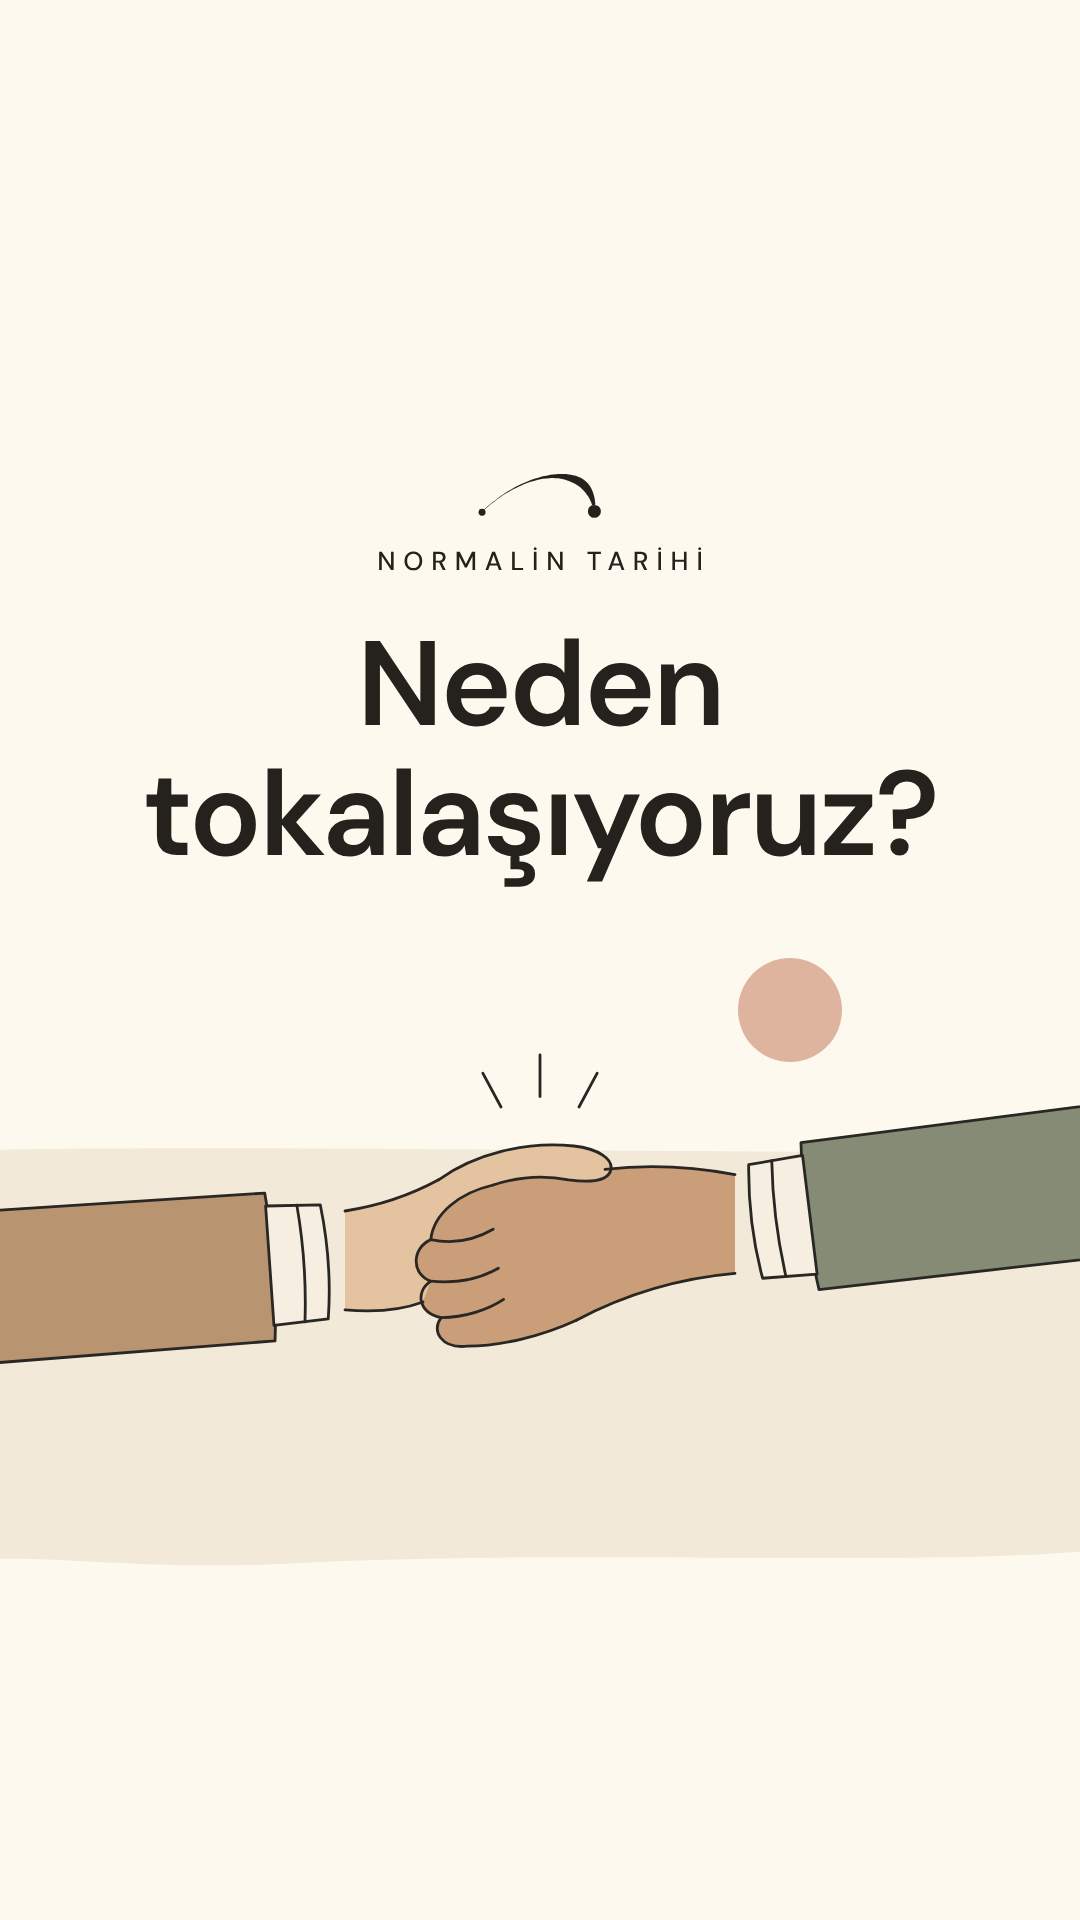
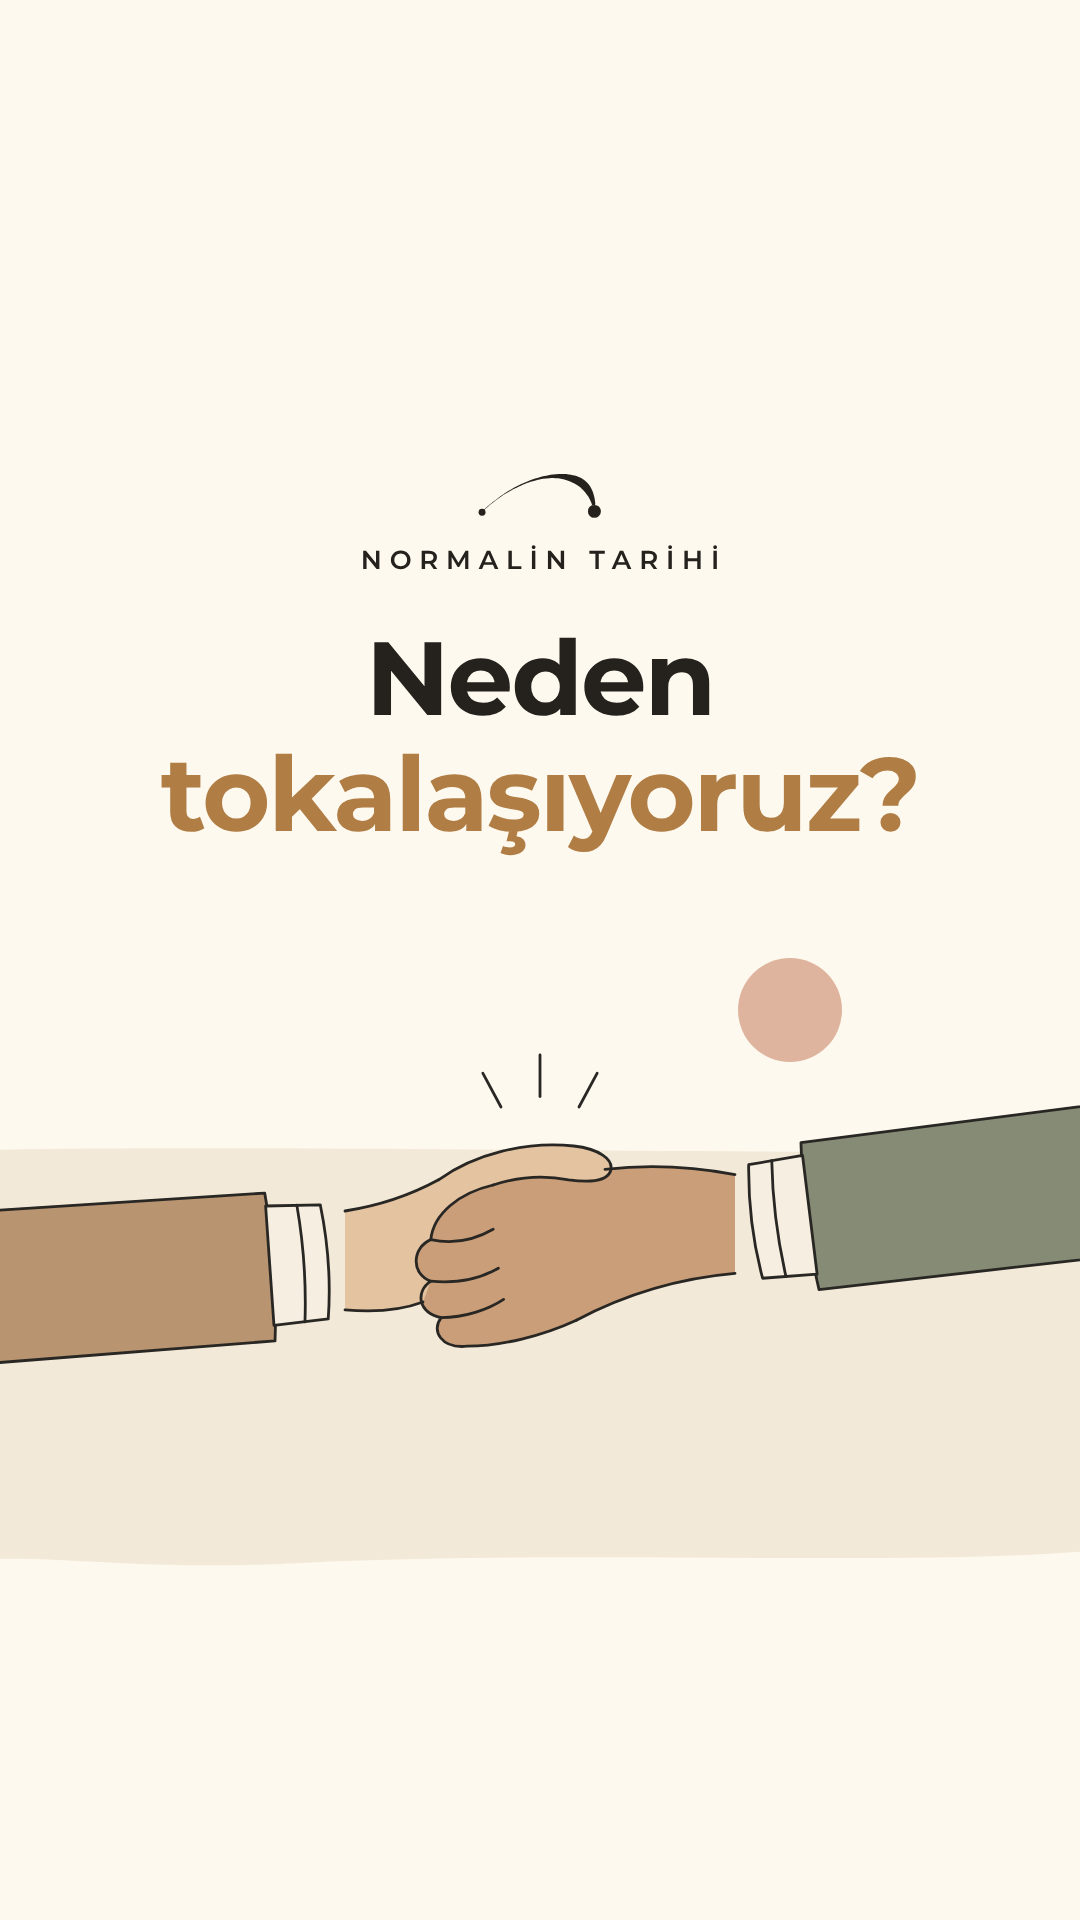
Switch to Montserrat Bold with two-colour text system
- Montserrat (600/700) as the only typeface, modelled on the approved
  BECAME reference; titles are larger/bolder versions of the subtitles
- Two text colours: anthracite #25221E and a caramel highlight
  (provisional until sampled from the reference) via *word* markup
- Opening/cover headline: 'Neden' anthracite, 'tokalaşıyoruz?' caramel
- Highlights in subtitles, labels and the ending greeting

Claude-Session: https://claude.ai/code/session_01FMdTgbYsgAmpC5cpEtNEWe

Changed region(s): [[0.1222, 0.2812, 0.8861, 0.4688], [0.55, 0.2812, 0.6417, 0.3125]]

diff --git a/normalin-tarihi/src/components/Type.tsx b/normalin-tarihi/src/components/Type.tsx
@@ -4,7 +4,7 @@ import {COLORS, FONT_FAMILY, TYPE} from '../brand/theme';
 
 const clamp = {extrapolateLeft: 'clamp', extrapolateRight: 'clamp'} as const;
 
-type Style = (typeof TYPE)[keyof typeof TYPE];
+type Style = {fontSize: number; fontWeight: number; lineHeight: number; letterSpacing: string};
 
 /**
  * The house text reveal: words are laid out up front (no reflow) and each
@@ -13,6 +13,29 @@ type Style = (typeof TYPE)[keyof typeof TYPE];
  * `times` gives each word's start frame; otherwise words are spread evenly
  * (weighted by length) between `from` and `to`.
  */
+/**
+ * Highlight markup: wrap words in *asterisks* (one or several words) to set
+ * them in COLOR B. Markers never change the word count, so narration word
+ * timings still line up.
+ */
+export const parseHighlights = (text: string) => {
+  let on = false;
+  return text
+    .split(/\s+/)
+    .filter(Boolean)
+    .map((raw) => {
+      const opens = raw.startsWith('*');
+      const closes = raw.endsWith('*') && raw.length > 1;
+      if (opens) on = true;
+      const word = raw.replace(/\*/g, '');
+      const hl = on;
+      if (closes) on = false;
+      return {word, hl};
+    });
+};
+
+export const stripHighlights = (text: string) => text.replace(/\*/g, '');
+
 export const WordReveal: React.FC<{
   text: string;
   from: number;
@@ -23,7 +46,8 @@ export const WordReveal: React.FC<{
   style?: React.CSSProperties;
 }> = ({text, from, to, type, times, wordFrames = 8, style}) => {
   const frame = useCurrentFrame();
-  const words = text.split(/\s+/).filter(Boolean);
+  const tokens = parseHighlights(text);
+  const words = tokens.map((t) => t.word);
   const weights = words.map((w) => w.length + 2);
   const total = weights.reduce((a, b) => a + b, 0);
   let acc = 0;
@@ -46,7 +70,16 @@ export const WordReveal: React.FC<{
         acc += weights[i];
         const p = interpolate(frame, [start, start + wordFrames], [0, 1], {...clamp, easing: Easing.out(Easing.quad)});
         return (
-          <span key={i} style={{display: 'inline-block', opacity: p, transform: `translateY(${(1 - p) * 8}px)`, marginRight: i < words.length - 1 ? '0.26em' : 0}}>
+          <span
+            key={i}
+            style={{
+              display: 'inline-block',
+              opacity: p,
+              transform: `translateY(${(1 - p) * 8}px)`,
+              marginRight: i < words.length - 1 ? '0.26em' : 0,
+              color: tokens[i].hl ? COLORS.highlight : undefined,
+            }}
+          >
             {w}
           </span>
         );
@@ -55,13 +88,31 @@ export const WordReveal: React.FC<{
   );
 };
 
-/** Large opening title: a bigger version of the subtitle type, word by word. */
-export const Title: React.FC<{text: string; from: number; to: number; top: number; out?: number}> = ({text, from, to, top, out}) => {
+/**
+ * Large headline: a bigger, bolder version of the subtitle type, revealed
+ * word by word. `lines` are stacked and centred; use *word* for COLOR B.
+ */
+export const Title: React.FC<{lines: string[]; from: number; to: number; top: number; out?: number; size?: number}> = ({
+  lines,
+  from,
+  to,
+  top,
+  out,
+  size,
+}) => {
   const frame = useCurrentFrame();
   const fade = out !== undefined ? interpolate(frame, [out, out + 14], [1, 0], clamp) : 1;
+  const counts = lines.map((l) => l.split(/\s+/).filter(Boolean).length);
+  const total = counts.reduce((a, b) => a + b, 0);
+  let seen = 0;
   return (
-    <div style={{position: 'absolute', top, left: 90, right: 90, opacity: fade}}>
-      <WordReveal text={text} from={from} to={to} type={TYPE.title} wordFrames={12} />
+    <div style={{position: 'absolute', top, left: 70, right: 70, opacity: fade}}>
+      {lines.map((l, i) => {
+        const a = from + ((to - from) * seen) / total;
+        seen += counts[i];
+        const b = from + ((to - from) * seen) / total;
+        return <WordReveal key={i} text={l} from={a} to={b} type={size ? {...TYPE.title, fontSize: size} : TYPE.title} wordFrames={12} />;
+      })}
     </div>
   );
 };

diff --git a/normalin-tarihi/src/episodes/ep01/scenes.tsx b/normalin-tarihi/src/episodes/ep01/scenes.tsx
@@ -179,7 +179,7 @@ const HistoryWalk: React.FC<{start: number; opacity: number}> = ({start, opacity
   );
 };
 
-export const OpeningScene: React.FC<{s: TimedScene; question: string}> = ({s, question}) => {
+export const OpeningScene: React.FC<{s: TimedScene; questionLines: string[]}> = ({s, questionLines}) => {
   const frame = useCurrentFrame();
   const q1 = atLine(s, 'q1');
   const meet = Math.round(atLine(s, 'q2', 0.12));
@@ -188,7 +188,7 @@ export const OpeningScene: React.FC<{s: TimedScene; question: string}> = ({s, qu
   return (
     <Paper>
       <div style={{opacity: 1 - walkIn}}>
-        <Title text={question} from={Math.max(0, q1 - 4)} to={atLine(s, 'q1', 0.7)} top={LAYOUT.titleY + 10} />
+        <Title lines={questionLines} from={Math.max(0, q1 - 4)} to={atLine(s, 'q1', 0.7)} top={LAYOUT.titleY + 10} />
       </div>
       <ArtSvg>
         <g opacity={1 - walkIn}>
@@ -227,7 +227,7 @@ export const MesopotamiaScene: React.FC<{s: TimedScene}> = ({s}) => {
   const figDraw = progress(frame, sec(1.6), sec(2.8));
   return (
     <Paper>
-      <Label text="Mezopotamya" />
+      <Label text="*Mezopotamya*" />
       <ArtSvg>
         <Sun x={830} y={560} opacity={land} />
         <Land horizon={930} opacity={land} />
@@ -283,7 +283,7 @@ export const TheoryScene: React.FC<{s: TimedScene}> = ({s}) => {
   const step = progress(frame, answerStart - sec(0.3), answerStart + sec(0.5));
   return (
     <Paper>
-      <Label text="Yaygın bir teori" />
+      <Label text="Yaygın bir *teori*" />
       <ArtSvg>
         <Land horizon={930} opacity={land} />
         <Ink paths={THEORY_BACK} draw={progress(frame, sec(0.2), sec(1.6))} overlap={0.4} />
@@ -327,8 +327,8 @@ export const AllianceScene: React.FC<{s: TimedScene}> = ({s}) => {
   const shake = ct > 0 && ct < 34 ? Math.sin((ct / 17) * Math.PI * 2) * 8 * (1 - ct / 40) : 0;
   return (
     <Paper>
-      <Label text="MÖ 9. yüzyıl · kabartma" to={closeAt + 8} />
-      <Label text="Bir ittifak" from={closeAt + 10} />
+      <Label text="*MÖ 9. yüzyıl* · kabartma" to={closeAt + 8} />
+      <Label text="Bir *ittifak*" from={closeAt + 10} />
       <ArtSvg>
         <g opacity={1 - close}>
           <Ink paths={SLAB} draw={slab} overlap={0.4} />
@@ -388,8 +388,8 @@ export const GreeceScene: React.FC<{s: TimedScene}> = ({s}) => {
   const land = progress(frame, 0, sec(0.9));
   return (
     <Paper>
-      <Label text="Antik Yunan" to={switchAt + 10} />
-      <Label text="Mezar steli" from={switchAt + 8} />
+      <Label text="*Antik Yunan*" to={switchAt + 10} />
+      <Label text="*Mezar* steli" from={switchAt + 8} />
       <ArtSvg>
         <g opacity={1 - toStele}>
           <Sun x={560} y={590} opacity={land} />
@@ -550,7 +550,7 @@ export const ModernScene: React.FC<{s: TimedScene}> = ({s}) => {
         <HandshakeMoment cy={HAND_Y} enter={2} meet={Math.round(atLine(s, 'c1', 0.48))} spark={false} />
       </ArtSvg>
       <div style={{opacity: 1 - progress(frame, s.duration - sec(0.6), s.duration)}}>
-        <Label text="Bugün" />
+        <Label text="*Bugün*" />
       </div>
     </Paper>
   );

diff --git a/normalin-tarihi/src/brand/theme.ts b/normalin-tarihi/src/brand/theme.ts
@@ -9,8 +9,14 @@ export const COLORS = {
   terracotta: '#BC8066',
   olive: '#858B74',
   taupe: '#A69B8B',
-  /** emblem / text anthracite, sampled from the official logo */
+  /** COLOR A — emblem / text anthracite, sampled from the official logo */
   text: '#25221E',
+  /**
+   * COLOR B — warm caramel highlight for key words.
+   * PROVISIONAL: replace with the value sampled from the approved
+   * BECAME reference screenshot once it is available.
+   */
+  highlight: '#B07D45',
   // derived tints (same hues, lighter) for large areas
   sandLight: '#EADCC6',
   sandPale: '#F3E9D8',
@@ -25,15 +31,15 @@ export const COLORS = {
 } as const;
 
 /** One typeface for the whole brand; hierarchy comes from size and weight. */
-export const FONT_FAMILY = "'DM Sans', 'Helvetica Neue', Arial, sans-serif";
+export const FONT_FAMILY = "'Montserrat', 'Helvetica Neue', Arial, sans-serif";
 
 export const TYPE = {
-  title: {fontSize: 104, fontWeight: 600, lineHeight: 1.08, letterSpacing: '-0.02em'},
-  ending: {fontSize: 64, fontWeight: 600, lineHeight: 1.15, letterSpacing: '-0.015em'},
-  label: {fontSize: 40, fontWeight: 500, lineHeight: 1.2, letterSpacing: '-0.005em'},
-  subtitle: {fontSize: 42, fontWeight: 500, lineHeight: 1.36, letterSpacing: '0em'},
-  small: {fontSize: 28, fontWeight: 500, lineHeight: 1.2, letterSpacing: '0em'},
-  wordmark: {fontSize: 36, fontWeight: 500, lineHeight: 1, letterSpacing: '0.3em'},
+  title: {fontSize: 100, fontWeight: 700, lineHeight: 1.12, letterSpacing: '-0.02em'},
+  ending: {fontSize: 58, fontWeight: 700, lineHeight: 1.2, letterSpacing: '-0.015em'},
+  label: {fontSize: 46, fontWeight: 700, lineHeight: 1.2, letterSpacing: '-0.01em'},
+  subtitle: {fontSize: 40, fontWeight: 600, lineHeight: 1.4, letterSpacing: '-0.005em'},
+  small: {fontSize: 26, fontWeight: 600, lineHeight: 1.2, letterSpacing: '0em'},
+  wordmark: {fontSize: 34, fontWeight: 700, lineHeight: 1, letterSpacing: '0.26em'},
 } as const;
 
 export const VIDEO = {width: 1080, height: 1920, fps: 30} as const;

diff --git a/normalin-tarihi/src/components/FontGate.tsx b/normalin-tarihi/src/components/FontGate.tsx
@@ -1,16 +1,15 @@
 import React, {useEffect, useState} from 'react';
 import {continueRender, delayRender} from 'remotion';
-import '@fontsource/dm-sans/400.css';
-import '@fontsource/dm-sans/500.css';
-import '@fontsource/dm-sans/600.css';
+import '@fontsource/montserrat/600.css';
+import '@fontsource/montserrat/700.css';
 
 const TR = 'Neden tokalaşıyoruz? NORMALİN TARİHİ İıŞşĞğÇçÖöÜü…’';
 
-/** Blocks rendering until DM Sans (incl. Turkish glyphs) is ready. */
+/** Blocks rendering until Montserrat (incl. Turkish glyphs) is ready. */
 export const FontGate: React.FC<{children: React.ReactNode}> = ({children}) => {
   const [handle] = useState(() => delayRender('Loading fonts'));
   useEffect(() => {
-    Promise.all(['400', '500', '600'].map((w) => document.fonts.load(`${w} 40px 'DM Sans'`, TR)))
+    Promise.all(['600', '700'].map((w) => document.fonts.load(`${w} 40px 'Montserrat'`, TR)))
       .then(() => document.fonts.ready)
       .then(() => continueRender(handle))
       .catch(() => continueRender(handle));

diff --git a/normalin-tarihi/src/episodes/ep01/Episode01.tsx b/normalin-tarihi/src/episodes/ep01/Episode01.tsx
@@ -20,7 +20,9 @@ import {
 } from './scenes';
 
 export const EP01_TITLE = script.title;
-export const EP01_ENDING_TEXT = 'Tanıştığımıza memnun olduk.';
+export const EP01_ENDING_TEXT = 'Tanıştığımıza *memnun olduk.*';
+/** Headline lines; *word* = highlight colour. */
+export const EP01_TITLE_LINES = ['Neden', '*tokalaşıyoruz?*'];
 
 const BLOCKS: Block[] = [
   {scene: 'opening', lines: ['q1', 'q2'], lead: 0.45, tail: 1.3},
@@ -56,7 +58,7 @@ export const Episode01: React.FC = () => {
   };
   return (
     <AbsoluteFill style={{background: COLORS.paper}}>
-      {seq('opening', <OpeningScene s={sc('opening')} question={script.title} />, 0, 7)}
+      {seq('opening', <OpeningScene s={sc('opening')} questionLines={EP01_TITLE_LINES} />, 0, 7)}
       {seq('logo', <LogoIntro />, 0, 8)}
       {seq('mesopotamia', <MesopotamiaScene s={sc('mesopotamia')} />, 6, 9)}
       {seq('theory', <TheoryScene s={sc('theory')} />)}

diff --git a/normalin-tarihi/src/Root.tsx b/normalin-tarihi/src/Root.tsx
@@ -3,7 +3,7 @@ import {Composition, Still} from 'remotion';
 import {VIDEO} from './brand/theme';
 import {FontGate} from './components/FontGate';
 import {Cover} from './components/Cover';
-import {Episode01, EP01_TIMELINE, EP01_TITLE} from './episodes/ep01/Episode01';
+import {Episode01, EP01_TIMELINE, EP01_TITLE_LINES} from './episodes/ep01/Episode01';
 import {ClaspedHands, MeetSpark} from './illustrations/hands';
 import {groundMass} from './illustrations/architecture';
 import {COLORS} from './brand/theme';
@@ -17,7 +17,7 @@ const Ep01 = () => (
 
 const Ep01Cover = () => (
   <FontGate>
-    <Cover titleLines={EP01_TITLE.split(' ')}>
+    <Cover titleLines={EP01_TITLE_LINES}>
       <path d={groundMass(1150, 1560)} fill={COLORS.sandPale} />
       <circle cx={790} cy={1010} r={52} fill={COLORS.terracottaLight} opacity={0.85} />
       <g transform="translate(540 1250) scale(1.3)">

diff --git a/normalin-tarihi/src/components/Cover.tsx b/normalin-tarihi/src/components/Cover.tsx
@@ -36,12 +36,14 @@ export const Cover: React.FC<{titleLines: string[]; children: React.ReactNode}> 
         textAlign: 'center',
         fontFamily: FONT_FAMILY,
         ...TYPE.title,
-        fontSize: 120,
+        fontSize: 104,
         color: COLORS.text,
       }}
     >
       {titleLines.map((l) => (
-        <div key={l}>{l}</div>
+        <div key={l} style={{color: l.startsWith('*') ? COLORS.highlight : COLORS.text}}>
+          {l.replace(/\*/g, '')}
+        </div>
       ))}
     </div>
     <ArtSvg>{children}</ArtSvg>

diff --git a/normalin-tarihi/src/components/SpecialEnding.tsx b/normalin-tarihi/src/components/SpecialEnding.tsx
@@ -22,9 +22,9 @@ export const SpecialEndingText: React.FC<{text: string; signature?: string; at: 
           marginTop: 24,
           fontFamily: FONT_FAMILY,
           ...TYPE.small,
-          letterSpacing: '0.12em',
+          letterSpacing: '0.08em',
           color: COLORS.text,
-          opacity: sig * 0.75,
+          opacity: sig,
           transform: `translateY(${(1 - sig) * 6}px)`,
         }}
       >

diff --git a/normalin-tarihi/README.md b/normalin-tarihi/README.md
@@ -24,14 +24,18 @@ The script is in `src/episodes/ep01/script.json`. Use it exactly as written. The
 
 `npm run preview:ep01` renders a visual-only preview that uses estimated timing.
 
-## Visual system (v3)
+## Visual system (v4)
 - Background `#FEF9EE` and emblem/text anthracite `#25221E`, both sampled from the official logo.
 - The logo intro always plays on beige with an anthracite emblem. It never uses a dark background.
 - Palette: sand `#D9C3A3`, camel `#B89470`, terracotta `#BC8066`, olive `#858B74`, taupe `#A69B8B`, outlines `#292724`. Tints are listed in `src/brand/theme.ts`.
 - Illustrations use thin charcoal outlines with flat muted fills. Fills wash in after each outline is drawn.
-- Typography uses **one family only, DM Sans**, with hierarchy from size and weight (`TYPE` in `theme.ts`).
-  - Titles, labels, subtitles, the logo wordmark and the sign-off all use the same word-by-word reveal.
-  - There are no underlines, rules or text boxes.
+- Typography uses **one family, Montserrat** (600 and 700), modelled on the approved BECAME reference. Hierarchy comes from size and weight, set in `TYPE` in `theme.ts`.
+- Text uses exactly two colours:
+  - anthracite `COLORS.text` `#25221E`;
+  - caramel `COLORS.highlight` for key words.
+
+  Mark highlighted words as `*word*` in titles, labels and the `subtitle` field. The caramel `#B07D45` is **provisional** until it is measured from the reference screenshot.
+- Every piece of text appears word by word. There are no underlines, rules or text boxes.
 
 ## Layout
 | Path | Purpose |
